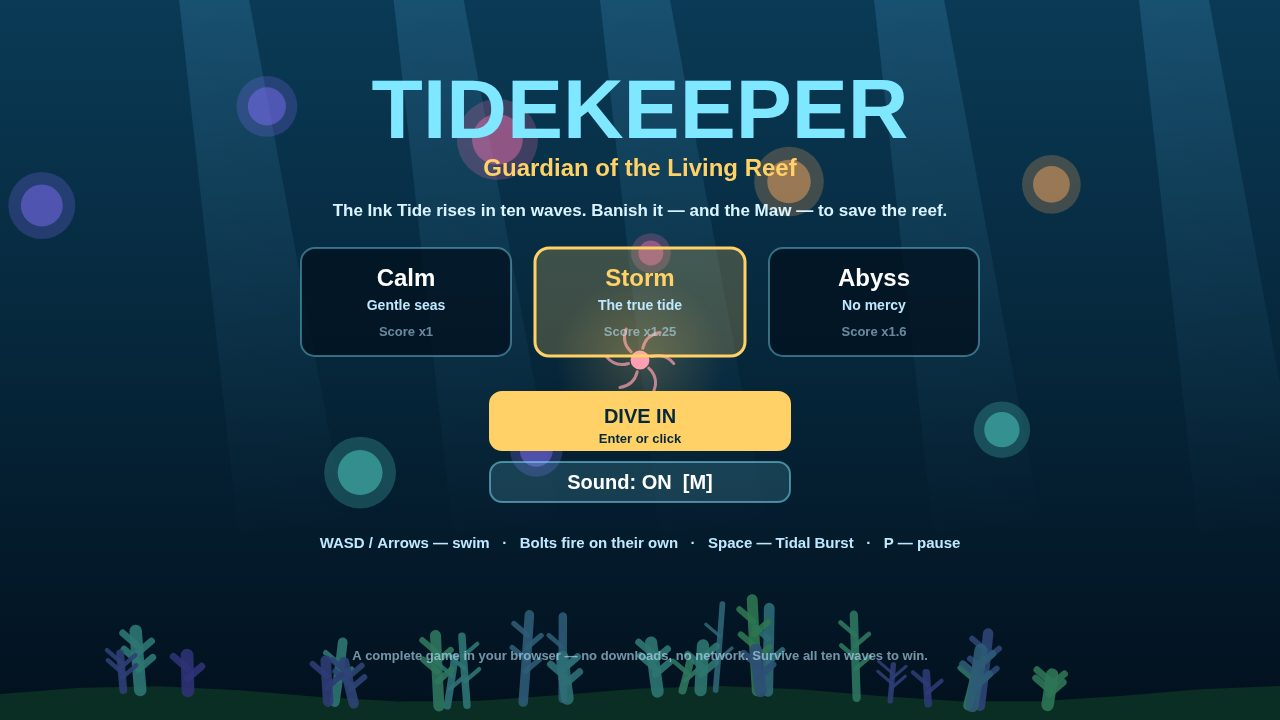
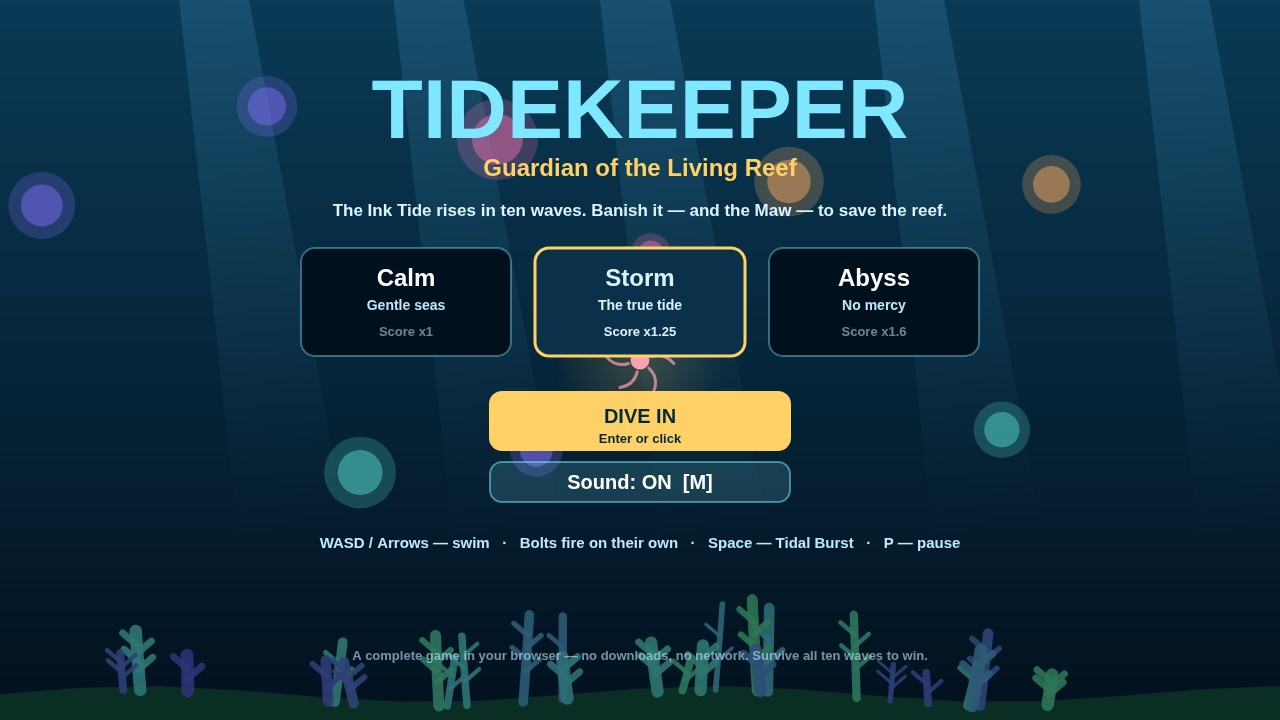
Title: selected difficulty card opaque #0b3049 with #d9f4ff text (Nạp Lan review msg 5408)
Per Nạp Lan's approval review: the selected card (Storm, default) is now
filled opaque #0b3049 and its text drawn in #d9f4ff, so the drifting wisps
can no longer wash over 'Score x1.25'. Re-took screenshots/2-title.jpg
from a real headless-Chromium render of ?shot=title&seed=1.

Changed region(s): [[0.4062, 0.3361, 0.5938, 0.5194]]

diff --git a/game/src/screens.js b/game/src/screens.js
@@ -88,24 +88,26 @@ export function drawTitle(ctx, ui) {
     const won = (wins[difficulty.id] ?? 0) > 0;
     // Opaque backing first: the arena's drifting wisps swim behind the title
     // screen and used to show through the translucent card and wash over the
-    // "Score x1.25" line on the Storm card. The tint goes on top unchanged.
+    // "Score x1.25" line on the Storm card. The fill below goes on top of it.
     ctx.fillStyle = '#02101e';
     roundRect(ctx, rect.x, rect.y, rect.w, rect.h, 14);
     ctx.fill();
-    ctx.fillStyle = selected ? 'rgba(255, 209, 102, 0.22)' : 'rgba(2, 16, 30, 0.75)';
+    // Per Nạp Lan's review (group msg 5408): the selected card is filled
+    // opaque #0b3049, so no drifting wisp can wash over its text.
+    ctx.fillStyle = selected ? '#0b3049' : 'rgba(2, 16, 30, 0.75)';
     roundRect(ctx, rect.x, rect.y, rect.w, rect.h, 14);
     ctx.fill();
     ctx.strokeStyle = selected ? '#ffd166' : 'rgba(127, 231, 255, 0.4)';
     ctx.lineWidth = selected ? 3 : 2;
     roundRect(ctx, rect.x, rect.y, rect.w, rect.h, 14);
     ctx.stroke();
-    ctx.fillStyle = selected ? '#ffd166' : '#ffffff';
+    ctx.fillStyle = selected ? '#d9f4ff' : '#ffffff';
     ctx.font = '700 24px "Trebuchet MS", Verdana, sans-serif';
     ctx.fillText(difficulty.name, rect.x + rect.w / 2, rect.y + 38);
-    ctx.fillStyle = '#bfe8ff';
+    ctx.fillStyle = selected ? '#d9f4ff' : '#bfe8ff';
     ctx.font = '600 14px "Trebuchet MS", Verdana, sans-serif';
     ctx.fillText(difficulty.tag, rect.x + rect.w / 2, rect.y + 62);
-    ctx.fillStyle = won ? '#7dffa8' : 'rgba(191,232,255,0.55)';
+    ctx.fillStyle = won ? '#7dffa8' : (selected ? '#d9f4ff' : 'rgba(191,232,255,0.55)');
     ctx.font = '700 13px "Trebuchet MS", Verdana, sans-serif';
     ctx.fillText(won ? '✓ Reef saved' : `Score x${difficulty.score}`, rect.x + rect.w / 2, rect.y + 88);
     buttons.push({ id: `difficulty:${difficulty.id}`, ...rect });
